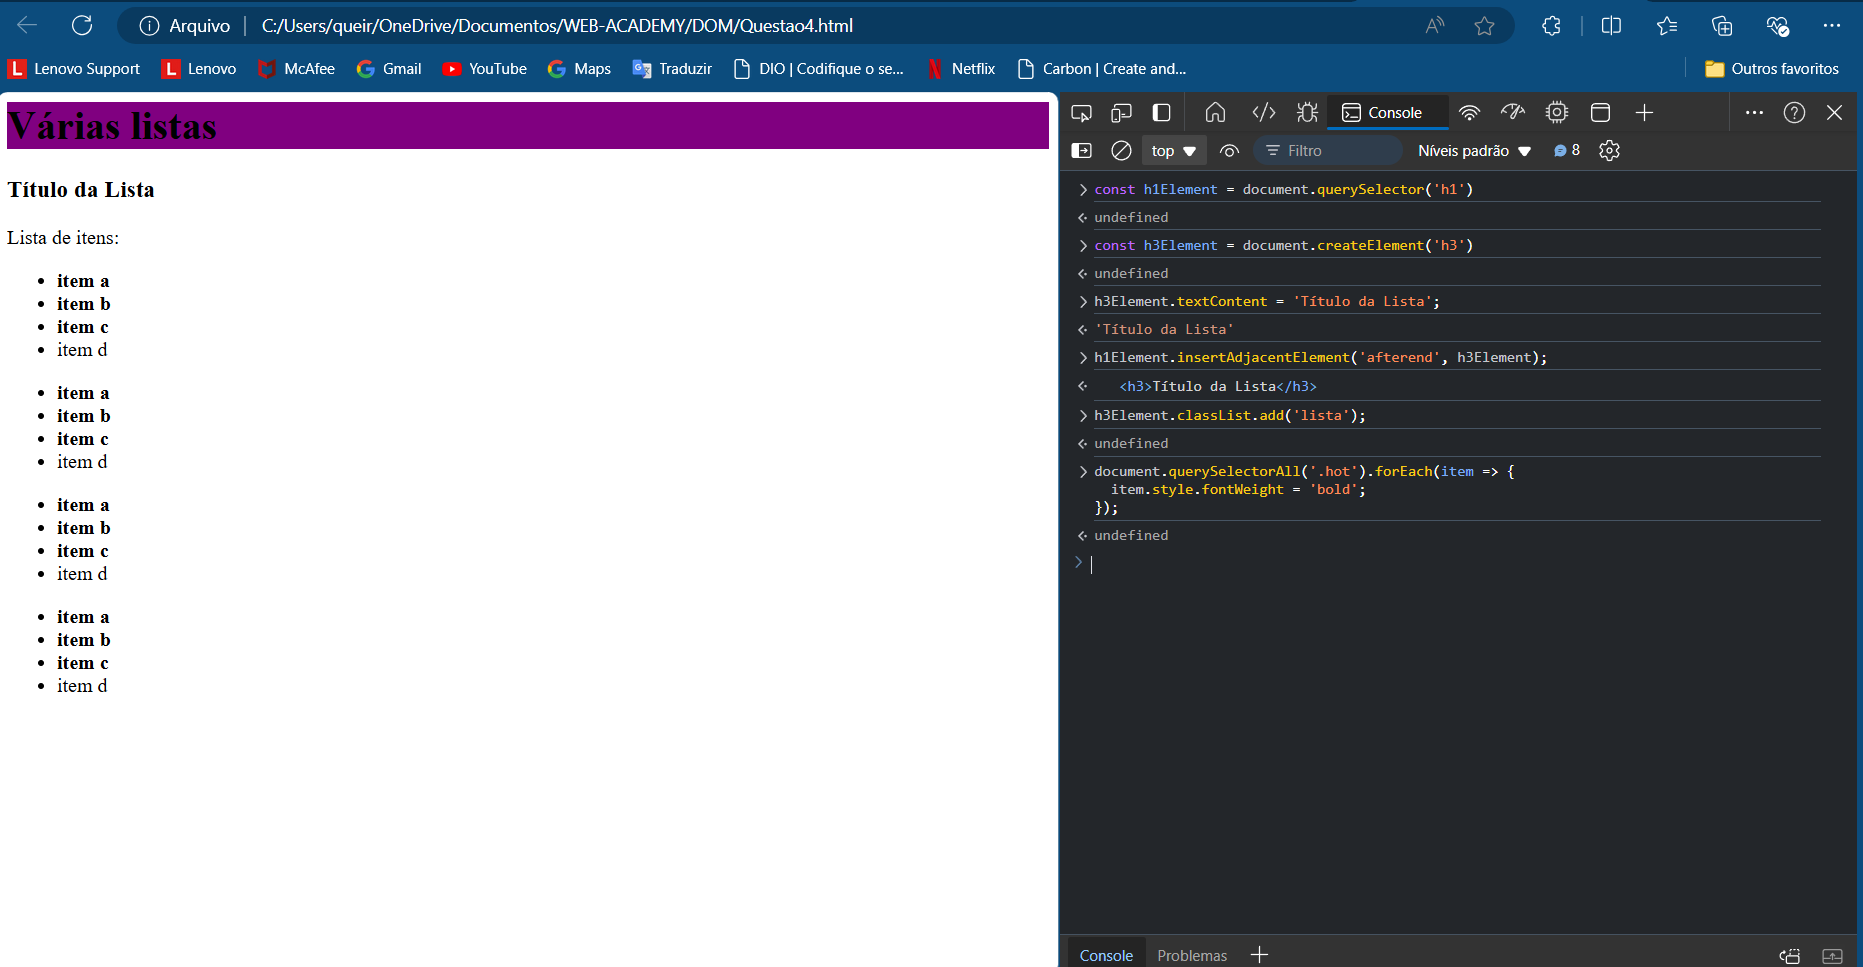
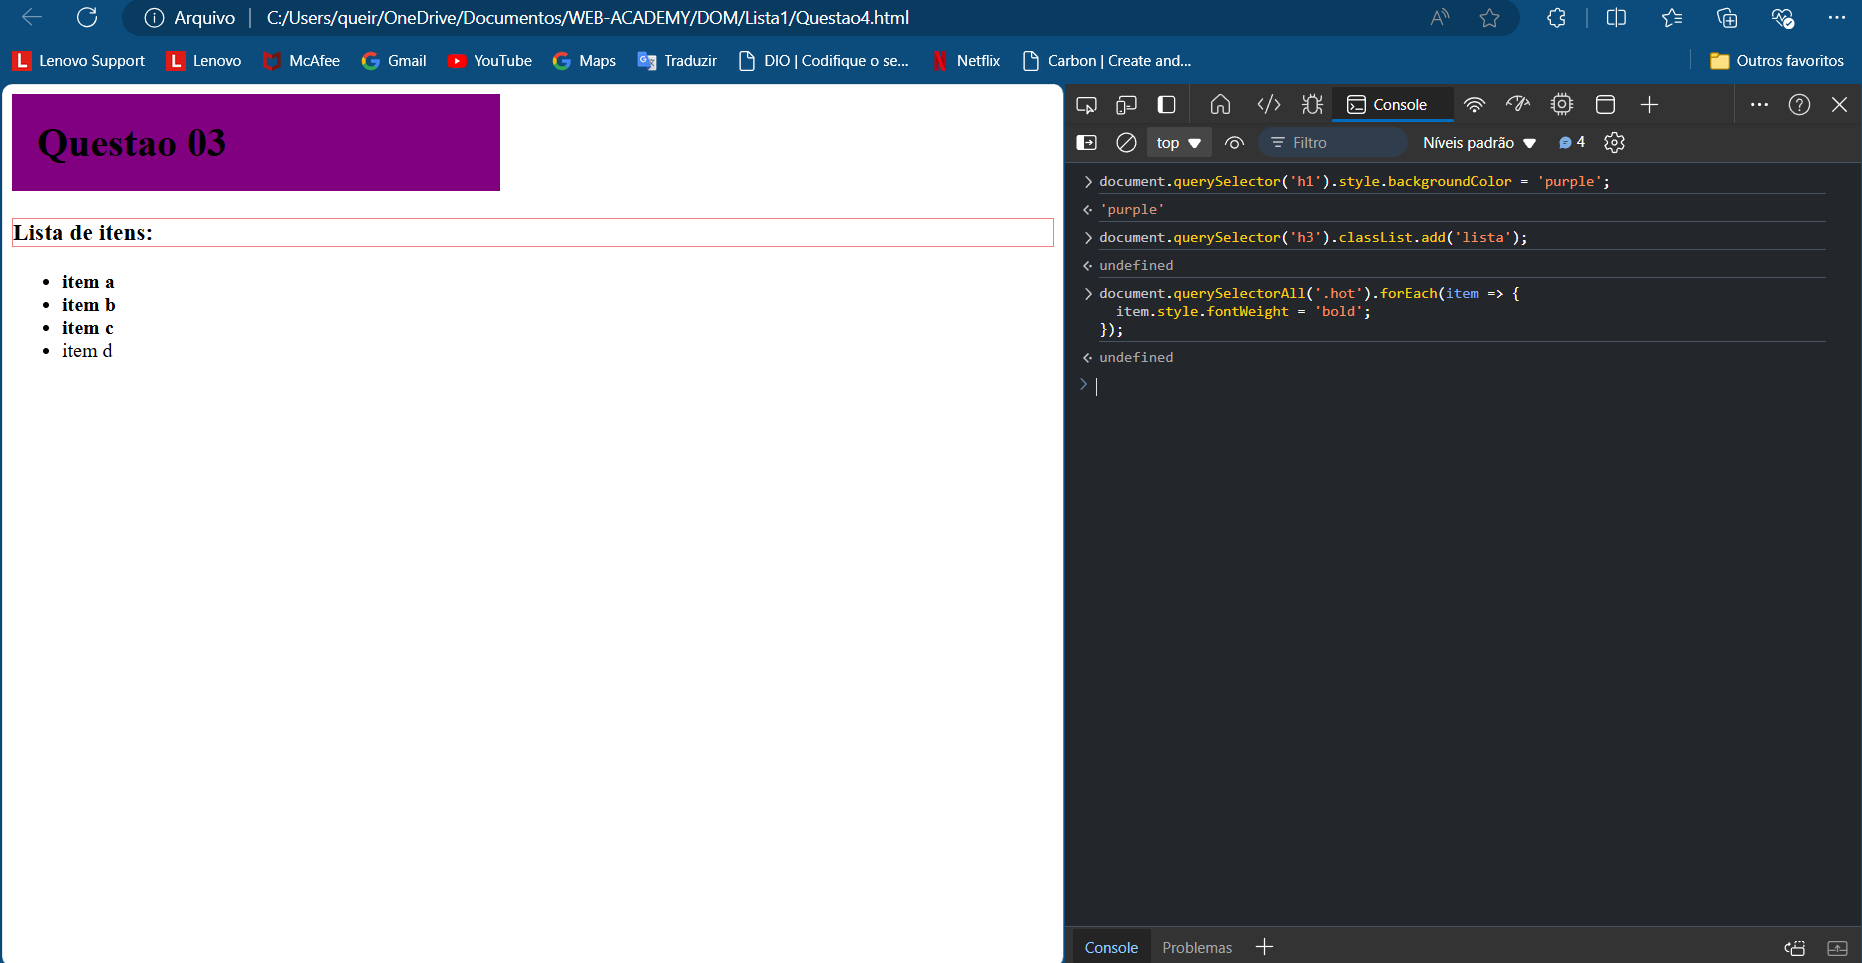
Alterando questão 4 e inserindo novos arquivos

Changed region(s): [[0.0, 0.0, 1.0, 1.0], [0.0311, 0.405, 0.0623, 0.7165], [0.0, 0.2804, 0.0623, 0.3738]]

diff --git a/DOM/Lista1/Questao4.html b/DOM/Lista1/Questao4.html
@@ -1,48 +1,34 @@
 <!DOCTYPE html>
-<html>
-  <head>
-    <style>
-      h1 {
-        background-color: purple;
-      }
-      .hot {
-        font-weight: bold;
-      }
-    </style>
-  </head>
-<body>
-    <h1>Várias listas</h1>
+<html lang="pt-BR">
+<head>
+  <meta charset="UTF-8">
+  <title>Questão 04</title>
+  <style>
+    h1 {
+      width: 350px;
+      padding: 20px;
+      background-color: purple; 
+    }
+    .lista {
+      border: 1px solid lightcoral;
+    }
+    .hot {
+      font-weight: bold; 
+    }
+  </style>
+</head>
 
-    <h3 class="lista">Título da Lista</h3>
-  
-    <p id="lista-titulo" name="lista">Lista de itens:</p>
-  
-    <ul class="lista-itens-1">
-      <li id="one" class="hot">item a</li>
-      <li id="two" class="hot">item b</li>
-      <li id="three" class="hot">item c</li>
-      <li id="four">item d</li>
-    </ul>
-  
-    <ul class="lista-itens-2">
-      <li id="one" class="hot">item a</li>
-      <li id="two" class="hot">item b</li>
-      <li id="three" class="hot">item c</li>
-      <li id="four">item d</li>
-    </ul>
-  
-    <ul class="lista-itens-3">
-      <li id="one" class="hot">item a</li>
-      <li id="two" class="hot">item b</li>
-      <li id="three" class="hot">item c</li>
-      <li id="four">item d</li>
-    </ul>
-  
-    <ul class="lista-itens-4">
-      <li id="one" class="hot">item a</li>
-      <li id="two" class="hot">item b</li>
-      <li id="three" class="hot">item c</li>
-      <li id="four">item d</li>
-    </ul>
-  </body>
-  </html>
+<body>
+  <h1>Questao 03</h1>
+
+  <h3 id="lista-titulo" class="lista">Lista de itens:</h3>
+
+  <ul id="lista-itens">
+    <li id="one" class="hot">item a</li>
+    <li id="two" class="hot">item b</li>
+    <li id="three" class="hot">item c</li>
+    <li id="four">item d</li>
+  </ul>
+</body>
+</html>
+
